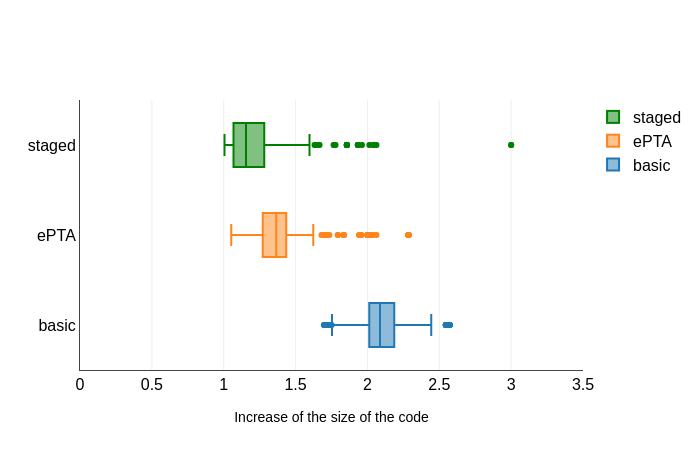
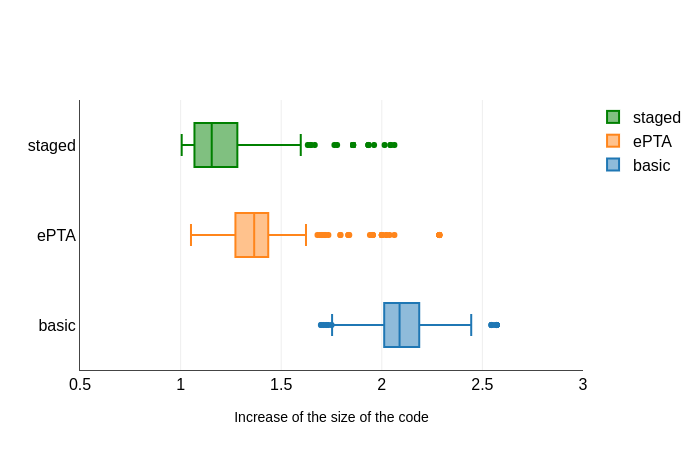
SMall changes

diff --git a/chapters/03_existing_tools.tex b/chapters/03_existing_tools.tex
@@ -1,4 +1,4 @@
-In this chapter, we list tools that work with instrumentation of LLVM. In the
+In this chapter, we list open-source tools that work with instrumentation of LLVM. In the
 first section, we describe a framework for general instrumentation where the
 user is somehow able to control the instrumentation in terms of what
 instructions will be inserted, etc. In the second section, we list the tools
@@ -48,46 +48,43 @@ instrumentation process very much.
 In this section, we describe tools that are not designed for general
 instrumentation but use instrumentation over LLVM for various purposes.
 
-\textsc{Clang} compiler (licensed under University of Illinois/NCSA Open Source
-License) provides several sanitizers that use instrumentation to insert runtime
-checks for various errors and undefined behaviour. It offers a memory error
-detection (out-of-bounds dereferences, use-after-free, double-free, etc.) with
-\textsc{AddressSanitizer}~\cite{asan}, that instruments each memory access with
-a check to a \textit{shadow memory}. The shadow memory contains metadata about
-corresponding program memory, mainly \textit{poisoned redzones} that mark
-locations of the memory that should not be accessed.
+\textsc{Clang} compiler provides several sanitizers that use instrumentation to
+insert runtime checks for various errors and undefined behaviour. It offers a
+memory error detection (out-of-bounds dereferences, use-after-free,
+double-free, etc.) with \textsc{AddressSanitizer}~\cite{asan}, that instruments
+each memory access with a check to a \textit{shadow memory}. The shadow memory
+contains metadata about corresponding program memory, mainly \textit{poisoned
+redzones} that mark locations of the memory that should not be accessed.
 \textsc{ThreadSanitizer}~\cite{tsan} is used for detection of data races in
 parallel programs. The analyzed code is instrumented such that it keeps
 information about each memory access and checks whether the access takes part
 in a race.  \textsc{UndefinedBehaviourSanitizer} offers undefined behaviour
-detection (e.g. signed integer overflows) by instrumenting all operations that may
-lead to undefined behaviour with a check. All these sanitizers modify the code
-during compilation and insert run-time checks. Disadvantage is a slowdown and
-memory overhead these tools introduce, however, the overhead introduced by other
-tools that are designed for similar purposes is usually higher~\cite{tsan,asan}.
+detection (e.g. signed integer overflows) by instrumenting all operations that
+may lead to undefined behaviour with a check. All these sanitizers modify the
+code during compilation and insert run-time checks. Disadvantage is a slowdown
+and memory overhead these tools introduce, however, the overhead introduced by
+other tools that are designed for similar purposes is usually
+higher~\cite{tsan,asan}.
 
-\textsc{SAFECode}~\cite{safecode} (Static Analysis For safe Execution of Code,
-licensed under University of Illinois/NCSA Open Source License) is a~tool
-developed at University of Illinois that checks memory safety, such as
-accessing invalid memory locations, out-of-bounds accesses, invalid frees and
-detection of dangling pointers. Like \clang sanitizers it inserts run-time
+\textsc{SAFECode}~\cite{safecode} (Static Analysis For safe Execution of Code)
+is a~tool developed at University of Illinois that checks memory safety, such
+as accessing invalid memory locations, out-of-bounds accesses, invalid frees
+and detection of dangling pointers. Like \clang sanitizers it inserts run-time
 checks at compile-time. Moreover, it uses static analysis to minimize the
 number of inserted run-time checks.
 
 Another tool that uses instrumentation to check memory safety is
-\textsc{Map2Check}~\cite{map2check} (licensed under GNU General Public License
-v2.0). It was inspired by \symbiotic and it inserts functions that track
+\textsc{Map2Check}~\cite{map2check}. It was inspired by \symbiotic and
+\textsc{Leakpoint}~\cite{leakpoint} and it inserts functions that track
 allocated memory and assertions that check the safety of operations on
 pointers.  Moreover, it can also insert assertions that check integer overflows
 after arithmetic operations.  Currently, it does not use any static analysis to
 reduce the number of inserted checks. Like \symbiotic, it uses the symbolic
 executor \klee~\cite{klee} to check reachability of error locations.
 
-\textsc{Loom}~\cite{loom} (licensed under their own license available at the
-homepage of \textsc{Loom}\footnote{\url{https://github.com/cadets/loom}}) and
-\textsc{LLVM IR Trace Profiler}~\cite{tracer} (\textsc{LLVM-Tracer}, licensed
-under BSD 3-clause) are tools used for code profiling. Both of them dynamically
-gather information about the program that is being analyzed.
+\textsc{Loom}~\cite{loom}  and \textsc{LLVM IR Trace Profiler}~\cite{tracer}
+(\textsc{LLVM-Tracer}) are tools used for code profiling. Both of them
+dynamically gather information about the program that is being analyzed.
 
 \textsc{Loom} is an LLVM library for instrumentation that enables to insert
 lines of code that expose values of LLVM instructions (e.g.~return values of

diff --git a/scripts/boxplot.py b/scripts/boxplot.py
@@ -44,7 +44,7 @@ layout = go.Layout(
         title='Increase of the size of the code',
         zeroline=True,
         showline=True,
-		range=[0, 3.5],
+		range=[0.5, 3],
         titlefont=dict(
             color='black',
             size=14
